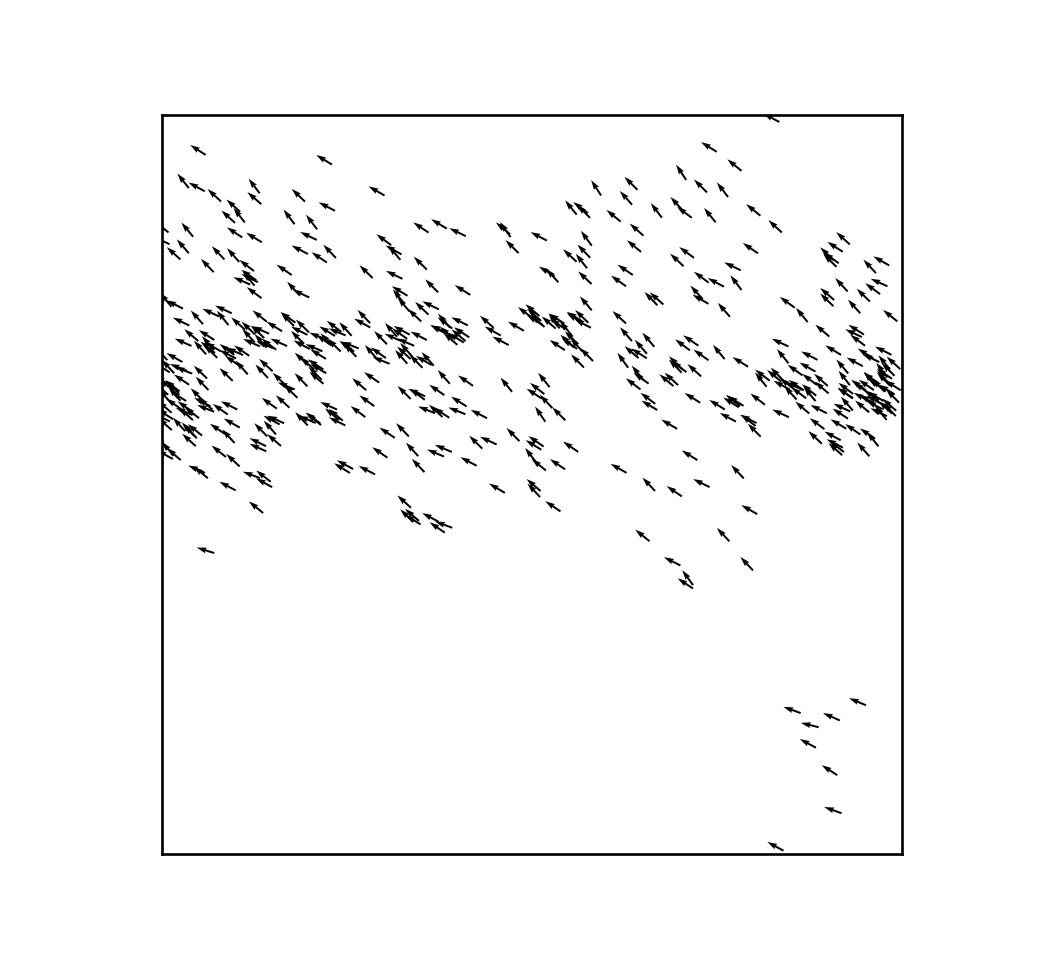
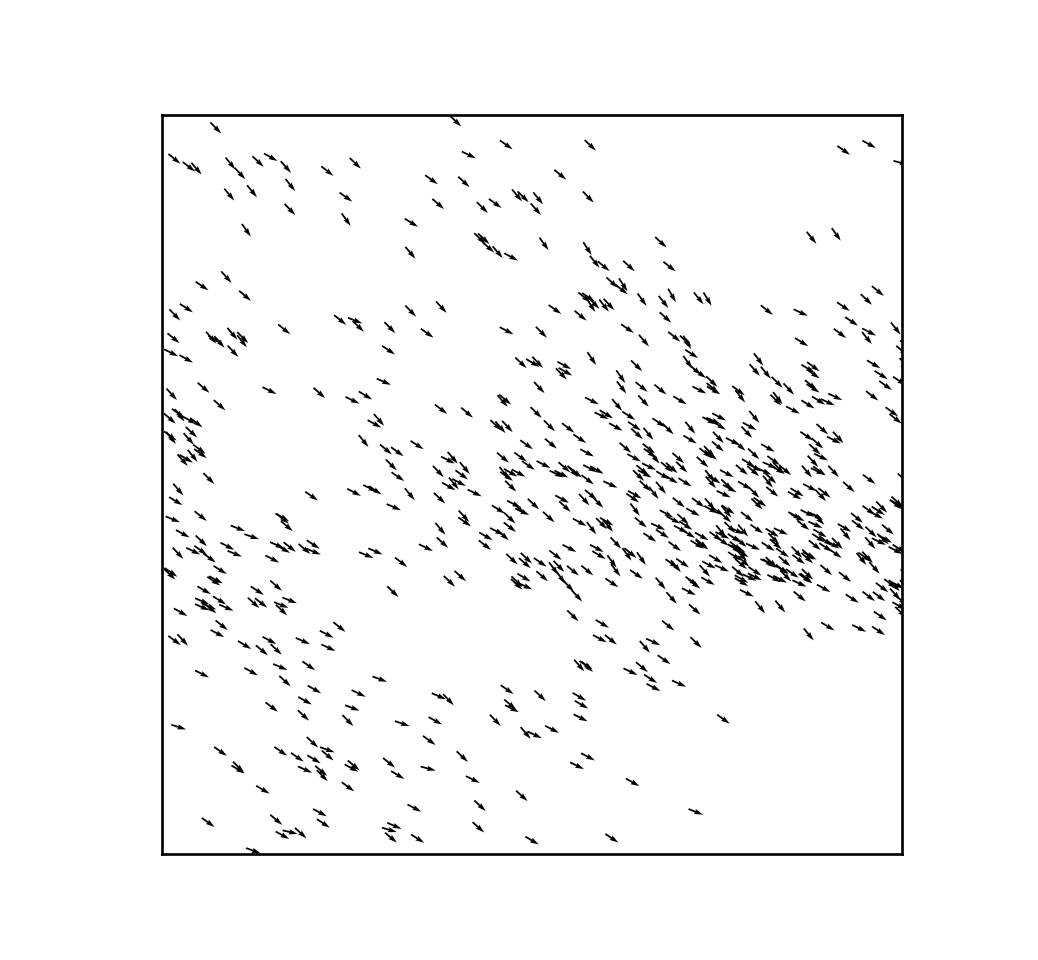
pre work

diff --git a/testing_phase/move_ant_with_click_a_star.py b/testing_phase/move_ant_with_click_a_star.py
@@ -1,0 +1,155 @@
+from functional.a_star_pure import astar
+from matplotlib.pyplot import grid
+import pygame
+import sys
+import random
+import time
+
+class Node():
+    """A node class for A* Pathfinding"""
+
+    def __init__(self, parent=None, position=None):
+        self.parent = parent
+        self.position = position
+
+        self.g = 0
+        self.h = 0
+        self.f = 0
+
+    def __eq__(self, other):
+        return self.position == other.position
+
+#map layout and size
+BLACK = (0, 0, 0)
+WHITE = (200, 200, 200)
+RED = (255,0,0)
+WINDOW_HEIGHT = 625
+WINDOW_WIDTH = 1250
+map = [[0, 0, 0, 0, 0, 0, 0, 0, 0, 0, 0, 0, 0, 0, 0, 0, 0, 0, 0, 0, 0, 0, 0, 0, 0],
+        [0, 0, 0, 0, 0, 0, 0, 0, 0, 0, 0, 0, 0, 0, 0, 0, 0, 0, 0, 0, 0, 0, 0, 0, 0],
+        [0, 0, 0, 0, 0, 0, 0, 0, 0, 0, 0, 0, 0, 0, 0, 0, 0, 0, 0, 0, 0, 0, 0, 0, 0],
+        [0, 0, 0, 0, 0, 0, 0, 0, 0, 0, 0, 0, 0, 0, 0, 0, 0, 0, 0, 0, 0, 0, 0, 0, 0],
+        [0, 0, 0, 0, 0, 0, 0, 0, 0, 0, 0, 0, 0, 0, 0, 0, 0, 0, 0, 0, 0, 0, 0, 0, 0],
+        [0, 0, 0, 0, 0, 0, 0, 0, 0, 0, 0, 0, 0, 0, 0, 0, 0, 0, 0, 0, 0, 0, 0, 0, 0],
+        [0, 0, 0, 0, 0, 0, 0, 0, 0, 0, 0, 0, 0, 0, 0, 0, 0, 0, 0, 0, 0, 0, 0, 0, 0],
+        [0, 0, 0, 0, 0, 0, 0, 0, 0, 0, 0, 0, 0, 0, 0, 0, 0, 0, 0, 0, 0, 0, 0, 0, 0],
+        [0, 0, 0, 0, 0, 0, 0, 0, 0, 0, 0, 0, 0, 0, 0, 0, 0, 0, 0, 0, 0, 0, 0, 0, 0],
+        [0, 0, 0, 0, 0, 0, 0, 0, 0, 0, 0, 0, 0, 0, 0, 0, 0, 0, 0, 0, 0, 0, 0, 0, 0],
+        [0, 0, 0, 0, 0, 0, 0, 0, 0, 0, 0, 0, 0, 0, 0, 0, 0, 0, 0, 0, 0, 0, 0, 0, 0],
+        [0, 0, 0, 0, 0, 0, 0, 0, 0, 0, 0, 0, 0, 0, 0, 0, 0, 0, 0, 0, 0, 0, 0, 0, 0],
+        [0, 0, 0, 0, 0, 0, 0, 0, 0, 0, 0, 0, 0, 0, 0, 0, 0, 0, 0, 0, 0, 0, 0, 0, 0],
+        [0, 0, 0, 0, 0, 0, 0, 0, 0, 0, 0, 0, 0, 0, 0, 0, 0, 0, 0, 0, 0, 0, 0, 0, 0],
+        [0, 0, 0, 0, 0, 0, 0, 0, 0, 0, 0, 0, 0, 0, 0, 0, 0, 0, 0, 0, 0, 0, 0, 0, 0],
+        [0, 0, 0, 0, 0, 0, 0, 0, 0, 0, 0, 0, 0, 0, 0, 0, 0, 0, 0, 0, 0, 0, 0, 0, 0],
+        [0, 0, 0, 0, 0, 0, 0, 0, 0, 0, 0, 0, 0, 0, 0, 0, 0, 0, 0, 0, 0, 0, 0, 0, 0],
+        [0, 0, 0, 0, 0, 0, 0, 0, 0, 0, 0, 0, 0, 0, 0, 0, 0, 0, 0, 0, 0, 0, 0, 0, 0],
+        [0, 0, 0, 0, 0, 0, 0, 0, 0, 0, 0, 0, 0, 0, 0, 0, 0, 0, 0, 0, 0, 0, 0, 0, 0],
+        [0, 0, 0, 0, 0, 0, 0, 0, 0, 0, 0, 0, 0, 0, 0, 0, 0, 0, 0, 0, 0, 0, 0, 0, 0],
+        [0, 0, 0, 0, 0, 0, 0, 0, 0, 0, 0, 0, 0, 0, 0, 0, 0, 0, 0, 0, 0, 0, 0, 0, 0],
+        [0, 0, 0, 0, 0, 0, 0, 0, 0, 0, 0, 0, 0, 0, 0, 0, 0, 0, 0, 0, 0, 0, 0, 0, 0],
+        [0, 0, 0, 0, 0, 0, 0, 0, 0, 0, 0, 0, 0, 0, 0, 0, 0, 0, 0, 0, 0, 0, 0, 0, 0],
+        [0, 0, 0, 0, 0, 0, 0, 0, 0, 0, 0, 0, 0, 0, 0, 0, 0, 0, 0, 0, 0, 0, 0, 0, 0],
+        [0, 0, 0, 0, 0, 0, 0, 0, 0, 0, 0, 0, 0, 0, 0, 0, 0, 0, 0, 0, 0, 0, 0, 0, 0],
+        [0, 0, 0, 0, 0, 0, 0, 0, 0, 0, 0, 0, 0, 0, 0, 0, 0, 0, 0, 0, 0, 0, 0, 0, 0],
+        [0, 0, 0, 0, 0, 0, 0, 0, 0, 0, 0, 0, 0, 0, 0, 0, 0, 0, 0, 0, 0, 0, 0, 0, 0],
+        [0, 0, 0, 0, 0, 0, 0, 0, 0, 0, 0, 0, 0, 0, 0, 0, 0, 0, 0, 0, 0, 0, 0, 0, 0],
+        [0, 0, 0, 0, 0, 0, 0, 0, 0, 0, 0, 0, 0, 0, 0, 0, 0, 0, 0, 0, 0, 0, 0, 0, 0],
+        [0, 0, 0, 0, 0, 0, 0, 0, 0, 0, 0, 0, 0, 0, 0, 0, 0, 0, 0, 0, 0, 0, 0, 0, 0],
+        [0, 0, 0, 0, 0, 0, 0, 0, 0, 0, 0, 0, 0, 0, 0, 0, 0, 0, 0, 0, 0, 0, 0, 0, 0],
+        [0, 0, 0, 0, 0, 0, 0, 0, 0, 0, 0, 0, 0, 0, 0, 0, 0, 0, 0, 0, 0, 0, 0, 0, 0],
+        [0, 0, 0, 0, 0, 0, 0, 0, 0, 0, 0, 0, 0, 0, 0, 0, 0, 0, 0, 0, 0, 0, 0, 0, 0],
+        [0, 0, 0, 0, 0, 0, 0, 0, 0, 0, 0, 0, 0, 0, 0, 0, 0, 0, 0, 0, 0, 0, 0, 0, 0],
+        [0, 0, 0, 0, 0, 0, 0, 0, 0, 0, 0, 0, 0, 0, 0, 0, 0, 0, 0, 0, 0, 0, 0, 0, 0],
+        [0, 0, 0, 0, 0, 0, 0, 0, 0, 0, 0, 0, 0, 0, 0, 0, 0, 0, 0, 0, 0, 0, 0, 0, 0],
+        [0, 0, 0, 0, 0, 0, 0, 0, 0, 0, 0, 0, 0, 0, 0, 0, 0, 0, 0, 0, 0, 0, 0, 0, 0],
+        [0, 0, 0, 0, 0, 0, 0, 0, 0, 0, 0, 0, 0, 0, 0, 0, 0, 0, 0, 0, 0, 0, 0, 0, 0],
+        [0, 0, 0, 0, 0, 0, 0, 0, 0, 0, 0, 0, 0, 0, 0, 0, 0, 0, 0, 0, 0, 0, 0, 0, 0],
+        [0, 0, 0, 0, 0, 0, 0, 0, 0, 0, 0, 0, 0, 0, 0, 0, 0, 0, 0, 0, 0, 0, 0, 0, 0],
+        [0, 0, 0, 0, 0, 0, 0, 0, 0, 0, 0, 0, 0, 0, 0, 0, 0, 0, 0, 0, 0, 0, 0, 0, 0],
+        [0, 0, 0, 0, 0, 0, 0, 0, 0, 0, 0, 0, 0, 0, 0, 0, 0, 0, 0, 0, 0, 0, 0, 0, 0],
+        [0, 0, 0, 0, 0, 0, 0, 0, 0, 0, 0, 0, 0, 0, 0, 0, 0, 0, 0, 0, 0, 0, 0, 0, 0],
+        [0, 0, 0, 0, 0, 0, 0, 0, 0, 0, 0, 0, 0, 0, 0, 0, 0, 0, 0, 0, 0, 0, 0, 0, 0],
+        [0, 0, 0, 0, 0, 0, 0, 0, 0, 0, 0, 0, 0, 0, 0, 0, 0, 0, 0, 0, 0, 0, 0, 0, 0],
+        [0, 0, 0, 0, 0, 0, 0, 0, 0, 0, 0, 0, 0, 0, 0, 0, 0, 0, 0, 0, 0, 0, 0, 0, 0],
+        [0, 0, 0, 0, 0, 0, 0, 0, 0, 0, 0, 0, 0, 0, 0, 0, 0, 0, 0, 0, 0, 0, 0, 0, 0],
+        [0, 0, 0, 0, 0, 0, 0, 0, 0, 0, 0, 0, 0, 0, 0, 0, 0, 0, 0, 0, 0, 0, 0, 0, 0],
+        [0, 0, 0, 0, 0, 0, 0, 0, 0, 0, 0, 0, 0, 0, 0, 0, 0, 0, 0, 0, 0, 0, 0, 0, 0],
+        [0, 0, 0, 0, 0, 0, 0, 0, 0, 0, 0, 0, 0, 0, 0, 0, 0, 0, 0, 0, 0, 0, 0, 0, 0]]
+
+# game clock and loop
+def main():
+    global SCREEN, CLOCK
+    pygame.init()
+    SCREEN = pygame.display.set_mode((WINDOW_WIDTH, WINDOW_HEIGHT))
+    CLOCK = pygame.time.Clock()
+    SCREEN.fill(BLACK)
+    x = 0
+    y = 0
+    startant()
+    while True:
+        for eve in pygame.event.get():
+            if eve.type==pygame.QUIT:
+                pygame.quit()
+                sys.exit()
+
+    # start = (3,11)
+    # end = (8,4)
+
+    # path = astar(start,end)
+    # print(path)
+
+    # grid_path = gridpath(path)
+    # print(grid_path)
+
+    prev_cord = [-25,-25]
+
+    # for cord in grid_path:
+    #     drawGrid()
+    #     time.sleep(1)
+    #     removeant(prev_cord)
+    #     prev_cord = cord
+    #     drawant(cord)
+    #     for event in pygame.event.get():
+    #         if event.type == pygame.QUIT:
+    #             pygame.quit()
+    #             sys.exit()
+
+    #     pygame.display.update()
+
+# function that removes the previous ant location
+def removeant(cord):
+    antsize = 25
+    removeant = pygame.Rect(cord[1], cord[0], antsize, antsize)
+    pygame.draw.rect(SCREEN, BLACK, removeant)
+    pygame.display.update()
+
+# function that draws the grid layout to the screen
+def drawGrid():
+    blockSize = 25 #Set the size of the grid block
+    for x in range(0, WINDOW_WIDTH, blockSize):
+        for y in range(0, WINDOW_HEIGHT, blockSize):
+            rect = pygame.Rect(x, y, blockSize, blockSize)
+            pygame.draw.rect(SCREEN, WHITE, rect, 1)
+
+# function that draws the ant to the screen
+def drawant(cord): #draws a red rectangle for the ant
+    antsize = 25
+    ant = pygame.Rect(cord[1], cord[0], antsize, antsize)
+    pygame.draw.rect(SCREEN, RED, ant)
+
+def startant():
+    antsize = 25
+    ant = pygame.Rect(0,0, antsize, antsize)
+    pygame.draw.rect(SCREEN, RED, ant)
+
+# function that converts the astar path to a pixel format path
+def gridpath(path):
+    grid_path = []
+    for cord in path:
+        new_cord = []
+        x = 25*cord[0]
+        y = 25*cord[1]
+        new_cord.append(x)
+        new_cord.append(y)
+        grid_path.append(new_cord)
+    return grid_path

diff --git a/functional/a_star_pure.py b/functional/a_star_pure.py
@@ -1,0 +1,143 @@
+class Node():
+    """A node class for A* Pathfinding"""
+
+    def __init__(self, parent=None, position=None):
+        self.parent = parent
+        self.position = position
+
+        self.g = 0
+        self.h = 0
+        self.f = 0
+
+    def __eq__(self, other):
+        return self.position == other.position
+
+def astar(start,end): #pathfinding system
+    open_list = []
+    closed_list = []
+    path = []
+
+    start_node = Node(None, start)
+    start_node.g = start_node.h = start_node.f = 0
+    end_node = Node(None, end)
+    end_node.g = end_node.h = end_node.f = 0
+
+    open_list.append(start_node)
+    previous_nodes_list = []
+
+    # Get the current node
+    while True:
+        current_node = open_list[0]
+        current_index = 0
+        # print(open_list)
+        for index, item in enumerate(open_list):
+            # print("F_values")
+            # print("value for checked item is : {}".format(item.f))
+            # print("value for current node is : {}".format(current_node.f))
+            # print('')
+            # print("item cords and f value")
+            # print(item.position)
+            # print(item.f)
+            # print("")
+            if item.f < current_node.f:
+                current_node = item
+                current_index = index
+        # print("")
+        # print("")
+        # print("f value of current node")
+        # print(current_node.f)
+        # print("current node cords")
+        # print(current_node.position)
+        # print("")
+        
+         # Pop current off open list, add to closed list
+        open_list.pop(current_index)
+        closed_list.append(current_node)
+        previous_nodes_list.append(current_node)
+
+        # Found the goal
+        # if current_node == end_node:
+        #     pass
+
+        current = current_node
+        if current is not None:
+            path.append(current.position)
+
+        # print(current.position)
+
+        if current_node == end_node:
+            return path
+
+        children = []
+        print("")
+        print("new current node:")
+        for new_position in [(0, -1), (0, 1), (-1, 0), (1, 0), (-1, -1), (-1, 1), (1, -1), (1, 1)]: # Adjacent squares
+
+            # Get node position
+            node_position = (current_node.position[0] + new_position[0], current_node.position[1] + new_position[1])
+
+            # Make sure within range
+            if node_position[0] > (len(map) - 1) or node_position[0] < 0 or node_position[1] > (len(map[len(map)-1]) -1) or node_position[1] < 0:
+                continue
+
+            # Make sure walkable terrain
+            # print('')
+            # print(map[node_position[0]][node_position[1]])
+            if map[node_position[0]][node_position[1]] != 0:
+                # print('passed')
+                # print('node_position after checking walkable:')
+                # print(node_position)
+                # print('')
+                continue
+
+            # Create new node
+            # print(node_position)
+            new_node = Node(current_node, node_position)
+
+            # Append
+            children.append(new_node)
+
+        # Loop through children
+        for child in children:
+            child_on_closed_list = False
+            prev_node_same_child = False
+            child_on_open_list = False
+            # Child is on the closed list
+            for closed_child in closed_list:
+                if child == closed_child:
+                    child_on_closed_list = True
+                    break
+            if child_on_closed_list:
+                continue
+            print("")
+            print("new child")
+            # print(previous_nodes_list)
+            for previous_node in previous_nodes_list:
+                if previous_node == child:
+                    prev_node_same_child = True
+                    break
+            if prev_node_same_child:
+                continue
+
+            print("child position")
+            print(child.position)
+
+            # Create the f, g, and h values
+            child.g = current_node.g + 1
+            child.h = ((child.position[0] - end_node.position[0]) ** 2) + ((child.position[1] - end_node.position[1]) ** 2)
+            child.f = child.g + child.h
+
+            # Child is already in the open list
+            for open_node in open_list:
+                if child == open_node and child.g > open_node.g:
+                    child_on_open_list = True
+                    break
+            
+            if child_on_open_list:
+                continue
+
+            # Add the child to the open list
+            # print("child position")
+            # print(child.position)
+            # print("")
+            open_list.append(child)

diff --git a/viscek_model.py b/viscek_model.py
@@ -10,8 +10,8 @@ def main():
 	L            = 10       # size of box
 	R            = 1        # interaction radius
 	dt           = 0.1      # time step
-	Nt           = 200      # number of time steps
-	N            = 500      # number of birds
+	Nt           = 300      # number of time steps
+	N            = 700      # number of birds
 	plotRealTime = True
 	
 	# Initialize
